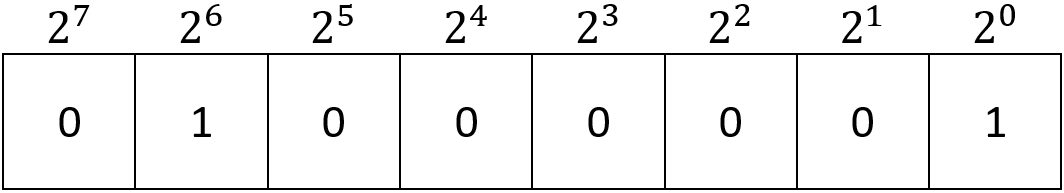
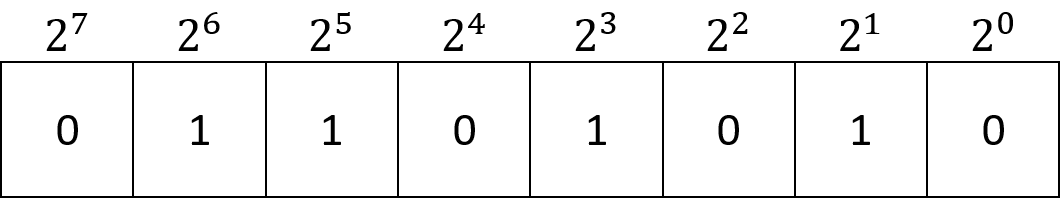
GitBook: [master] one page and 3 assets modified

diff --git a/prakticheskie-raboty/prakticheskaya-rabota-1.-rabota-s-bitami.md b/prakticheskie-raboty/prakticheskaya-rabota-1.-rabota-s-bitami.md
@@ -4,7 +4,9 @@
 
 Байт представляет собой последовательность из 8 бит, каждый из которых может принимать значение 0 или 1, независимо от других бит в последовательности.
 
-![](../.gitbook/assets/image%20%2828%29.png)
+![](../.gitbook/assets/image%20%2829%29.png)
+
+### Перевод из двоичной в десятичный формат и обратно
 
 Для перевода в двоичную систему и обратно существуют специальные формулы, но удобно использовать следующий подход - для перевода числа удобно разложить число на сумму слагаемых, который представляют два в определенной степени. Например:
 
@@ -14,5 +16,17 @@ $$
 
 Каждый бит последовательности справа налево представляет слагаемое 2 в степени от `0` до `n-1`, где `n` - количество бит в последовательности. Таким образом, 65 можно представить в двоичном формате следующим образом
 
+![](../.gitbook/assets/image%20%2828%29.png)
+
+Те же вычисления можно провести в обратном порядке. Допустим, есть число в двоичном формате
+
 ![](../.gitbook/assets/image%20%2827%29.png)
+
+Переведем его в десятичный формат
+
+$$
+2^6 +2^5 + 2^3 + 2^1 = 64 + 32 + 8 + 2 = 106
+$$
+
+
 
